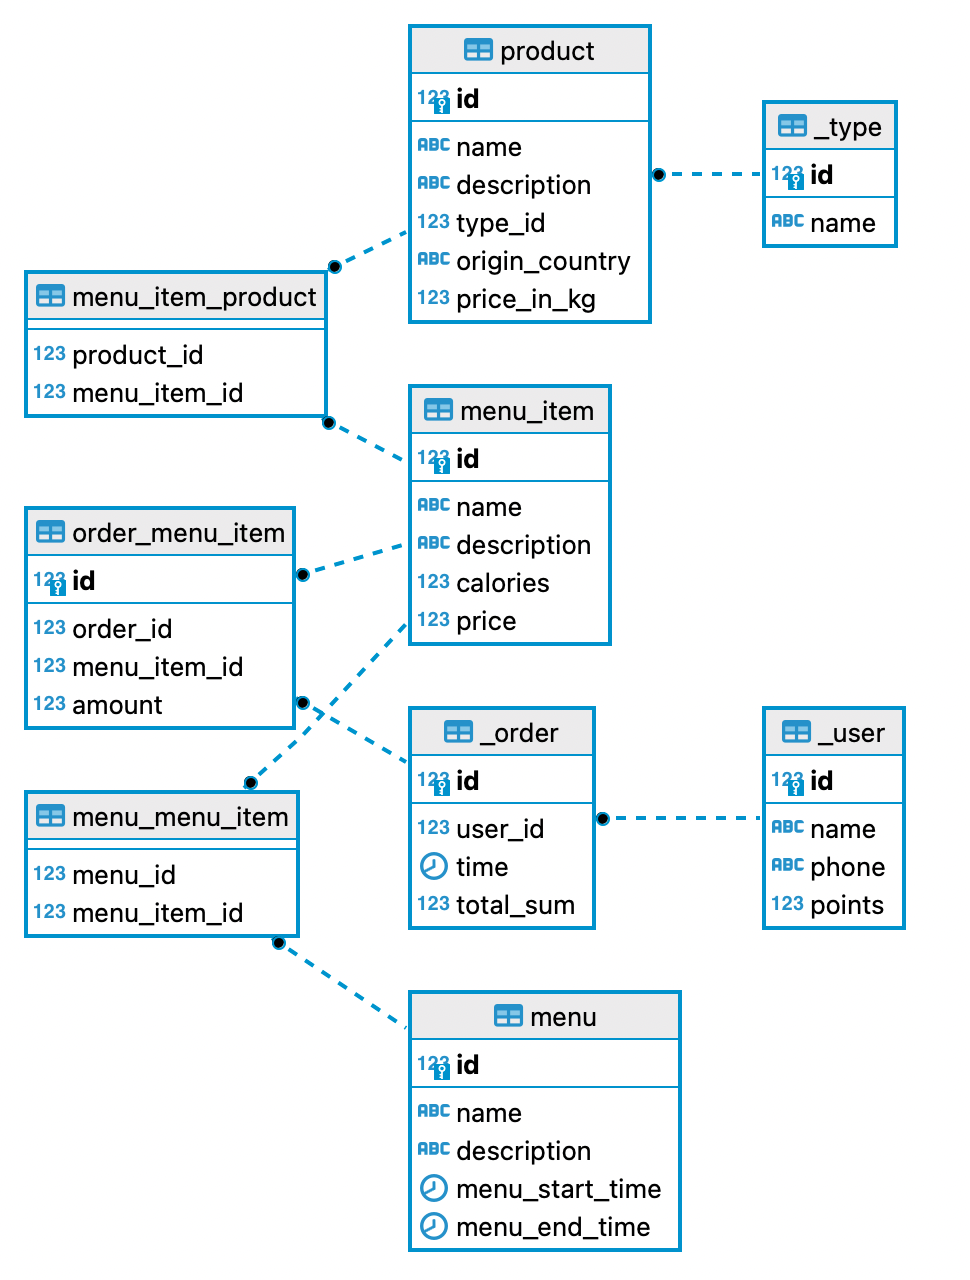
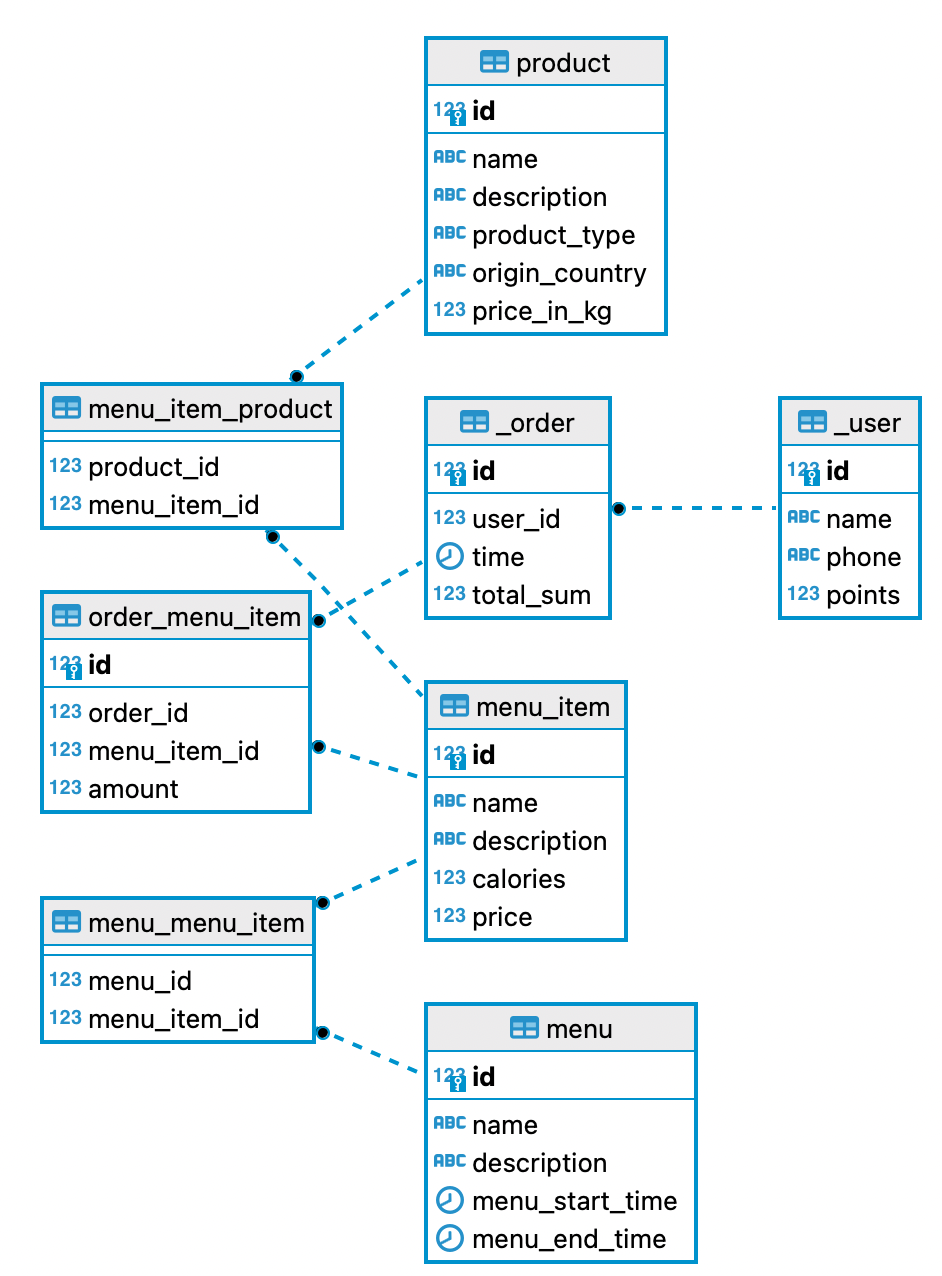
deleted entity type

diff --git a/README.md b/README.md
@@ -67,16 +67,9 @@
 | product_id     | SERIAL NOT NULL       | PrimaryKey                |
 | name           | VARCHAR(30) NOT NULL  |                           |
 | description    | VARCHAR(300) NOT NULL |                           |
-| type_id        | INT > 0, NOT NULL     | ForeignKey на Type        |
+| product_type   | Enum product_type     |                           |
 | origin_country | VARCHAR(30) NOT NULL  |                           |
 | price_in_kg    | INT > 0, NOT NULL     |                           |
-
-- **Type**
-
-| Название     | Описание          | Дополнительная информация |
-| ------------ | ----------------- | ------------------------- |
-| type_id      | SERIAL NOT NULL   | PrimaryKey                |
-| product_type | Enum product_type |                           |
 
 Enum product_type (сoffee, dessert)
 
